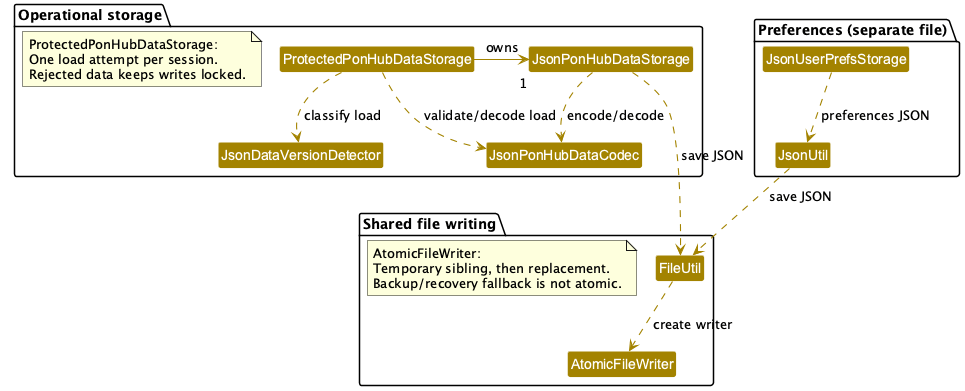
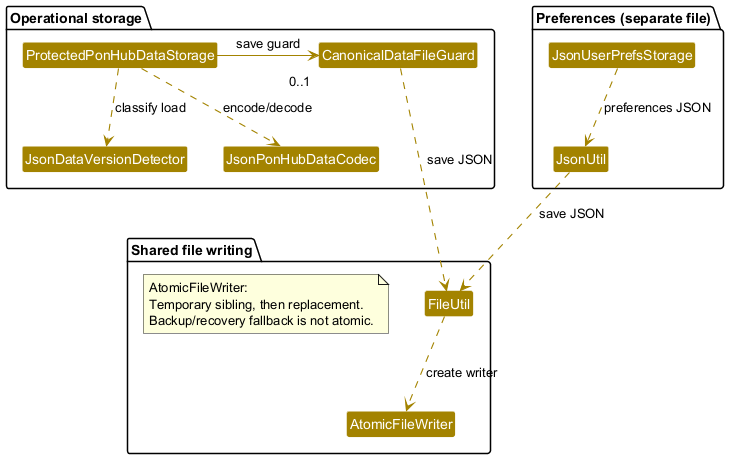
Align storage diagram and manual save checks
Show the protected session's held CanonicalDataFileGuard and its active
save dependency instead of the standalone JsonPonHubDataStorage helper.
Explain the optional guard lifecycle and regenerate the matching diagram
with its reference count and dependency labels clear at guide width.

Add a reproducible two-window manual procedure covering stale rejection,
unchanged file hashes and live views, restart, and subsequent ID reuse.
Preserve the existing guide anchors and separate actual test evidence
from reusable testing instructions.

diff --git a/docs/DeveloperGuide.md b/docs/DeveloperGuide.md
@@ -762,18 +762,24 @@ repeating them here.
 
 ### Storage component
 
-`ProtectedPonHubDataStorage` guards the active operational store; `JsonPonHubDataCodec` converts complete
-snapshots and `JsonPonHubDataStorage` performs file access. Preferences use `JsonUserPrefsStorage`
-separately. [Application startup](#canonical-application-startup-85) selects and checks paths.
+`ProtectedPonHubDataStorage` validates the active operational store and uses `JsonPonHubDataCodec` to decode
+and encode complete snapshots. Its `CanonicalDataFileGuard` coordinates each save and delegates replacement
+to the shared file writer. Preferences use `JsonUserPrefsStorage` separately.
+[Application startup](#canonical-application-startup-85) selects and checks paths.
 
 <a href="images/CanonicalStorageClassDiagram.png"><img src="images/CanonicalStorageClassDiagram.png" alt="Active canonical storage and separate preference storage sharing the safe file writer" width="800" /></a>
 
-Select the diagram to view it at full size. The two unconnected UML notes name the classes they describe.
+Select the diagram to view it at full size. The unconnected UML note names the writer whose recovery
+behavior it summarizes.
 
 The diagram shows the active storage classes; solid arrows show a held reference and dashed arrows show
 dependencies. The protected loader reads and classifies operational JSON before decoding the complete
-snapshot. Only a successful load or confirmed absence permits later saves through its owned
-`JsonPonHubDataStorage`. Preferences use their own codec/path through `JsonUtil`; both save paths reach
+snapshot. A successful load or confirmed absence installs one `CanonicalDataFileGuard`; before that,
+or after rejected startup, the loader has no save guard, hence the `0..1` multiplicity. For each later save,
+the codec encodes the candidate and the guard locks the sidecar, checks the file against its baseline, and
+passes the JSON to `FileUtil`. `JsonPonHubDataStorage` remains a standalone codec/file-access convenience,
+outside the active session's save path, and is omitted from this diagram.
+Preferences use their own codec/path through `JsonUtil`; both active save paths reach
 `AtomicFileWriter` through `FileUtil`. The writer's replacement and recovery limits are described once
 under [Safe JSON saves](#safe-json-saves). This is the current implementation, not a proposed storage migration.
 
@@ -2197,6 +2203,39 @@ and retain its per-trial results and unavailable combinations. The cases here ch
 Automated initialization/shutdown checks do not establish full-window interaction, physical scaling
 or packaged JAR-folder anchoring. Record actual results for the procedure above.
 Historical verification details are preserved in [#84](https://github.com/AY2627S1-CS2103T-F13-3/tp/issues/84#issuecomment-6140874125).
+
+### Accidental second-window save protection
+
+Use the [common journey's artifact/runtime record](#common-selector-and-failure-journey) and a disposable
+JAR folder. Choose a previously unused path, such as `manual/two-windows.json`; do not use real records.
+Record actual feedback, file hashes and restart results separately from these reusable instructions.
+
+1. From two terminals in that same JAR folder, launch two windows **before either window saves**, using
+   the identical command `java -jar ponhub.jar --data=manual/two-windows.json` in both terminals.
+   Call them A and B. Both should show an empty people list, with no operational file created yet.
+2. In A, enter `add r/student n/Alex Tan l/S2 pp/91234567`.
+   Expect `New student added: Alex Tan (S1).` and Alex in A's list. Record the selected file's SHA-256:
+   `shasum -a 256 manual/two-windows.json` on macOS/Linux, or
+   `Get-FileHash manual/two-windows.json -Algorithm SHA256` in PowerShell.
+3. In the already-open B, enter `add r/student n/Jamie Tan l/P1 pp/91234568`.
+   Expect a save error saying the file changed and this window must restart, with no success feedback.
+   B's list stays empty: the rejected command does not publish Jamie or consume a Student ID.
+   Recheck the file hash; it must equal the hash after A's save. A must still show Alex.
+4. In B, retry the same addition. Expect another rejection and the same file hash. Run `help` and `list`;
+   they remain usable, but B's empty list is stale and does not mean Alex was deleted. Exit both windows
+   normally with `exit`, then confirm the operational file hash still matches. Leave the empty
+   `two-windows.json.ponhub-lock` sidecar in place; its presence after exit is normal.
+5. Restart one window with the same command. Expect Alex as `S1` and no Jamie. Enter Jamie's command again;
+   expect `New student added: Jamie Tan (S2).` and both Students in the list. Exit and reopen once more
+   to confirm both records and IDs persist.
+6. Repeat from an existing supported file: load it in both windows before changing either, save a real
+   mutation in A, then attempt a different mutation in B. Expect B's rejection to preserve A's saved bytes
+   and B's previous live view. Close both and restart before continuing normal work.
+
+If another window is still inside a save, a busy-save error may precede stale-file detection. Wait for that
+save to finish and retry; a changed file must then require restart. Do not delete the sidecar, overwrite
+the newer file with a stale window's data, or edit files while windows are running. See
+[Safe JSON saves](#safe-json-saves) for the safeguard's scope and recovery limits.
 
 ### Canonical people commands and unsuccessful saves
 
